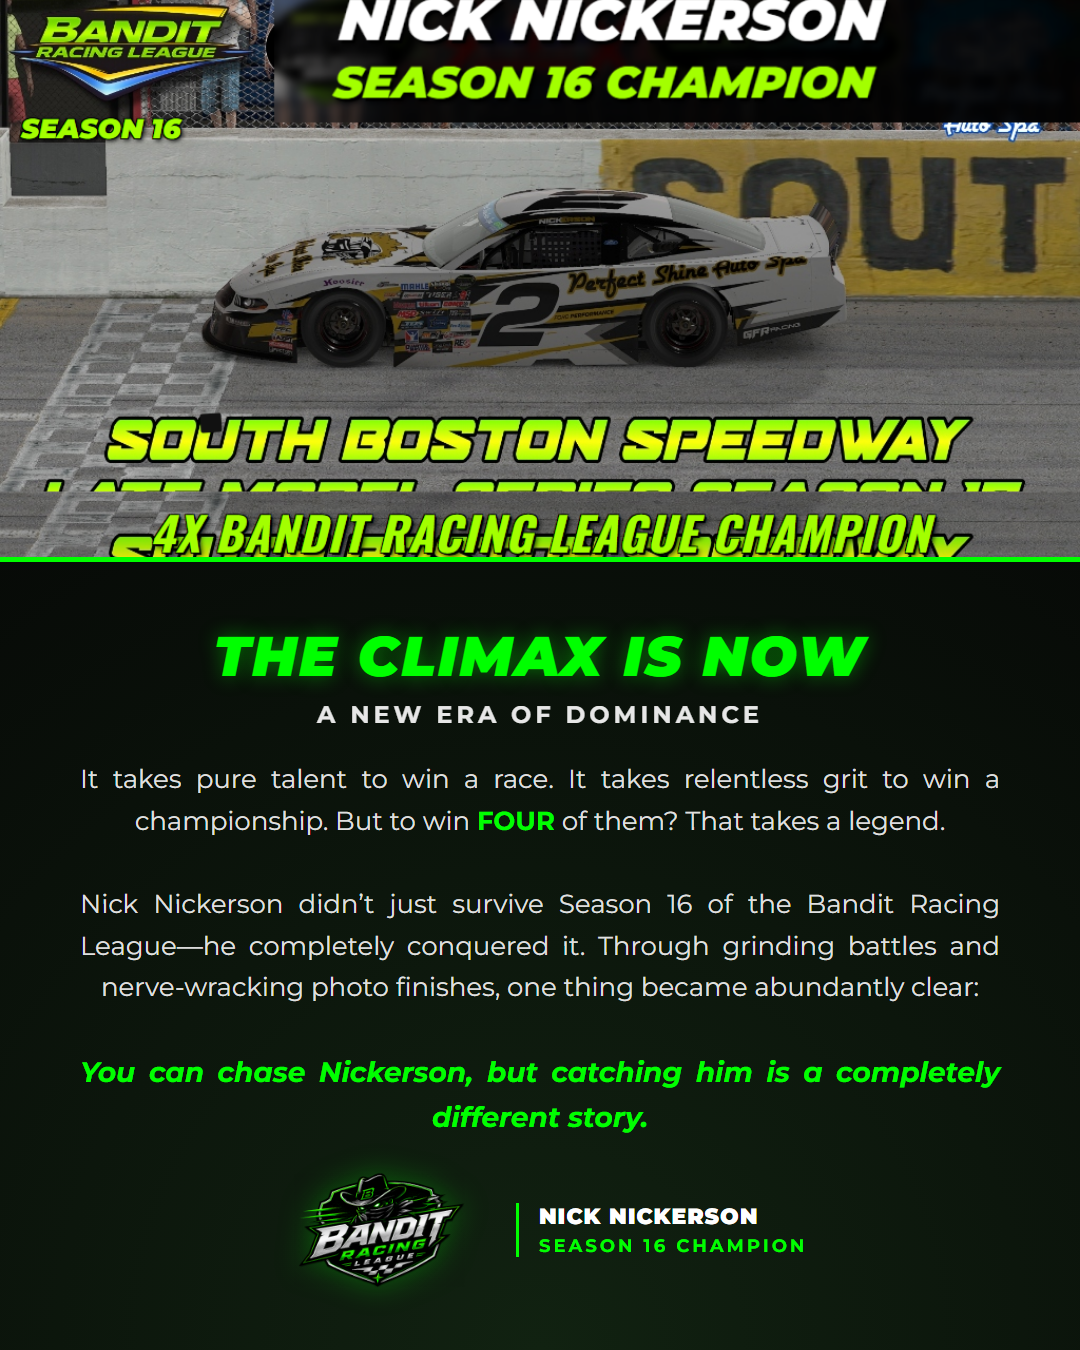
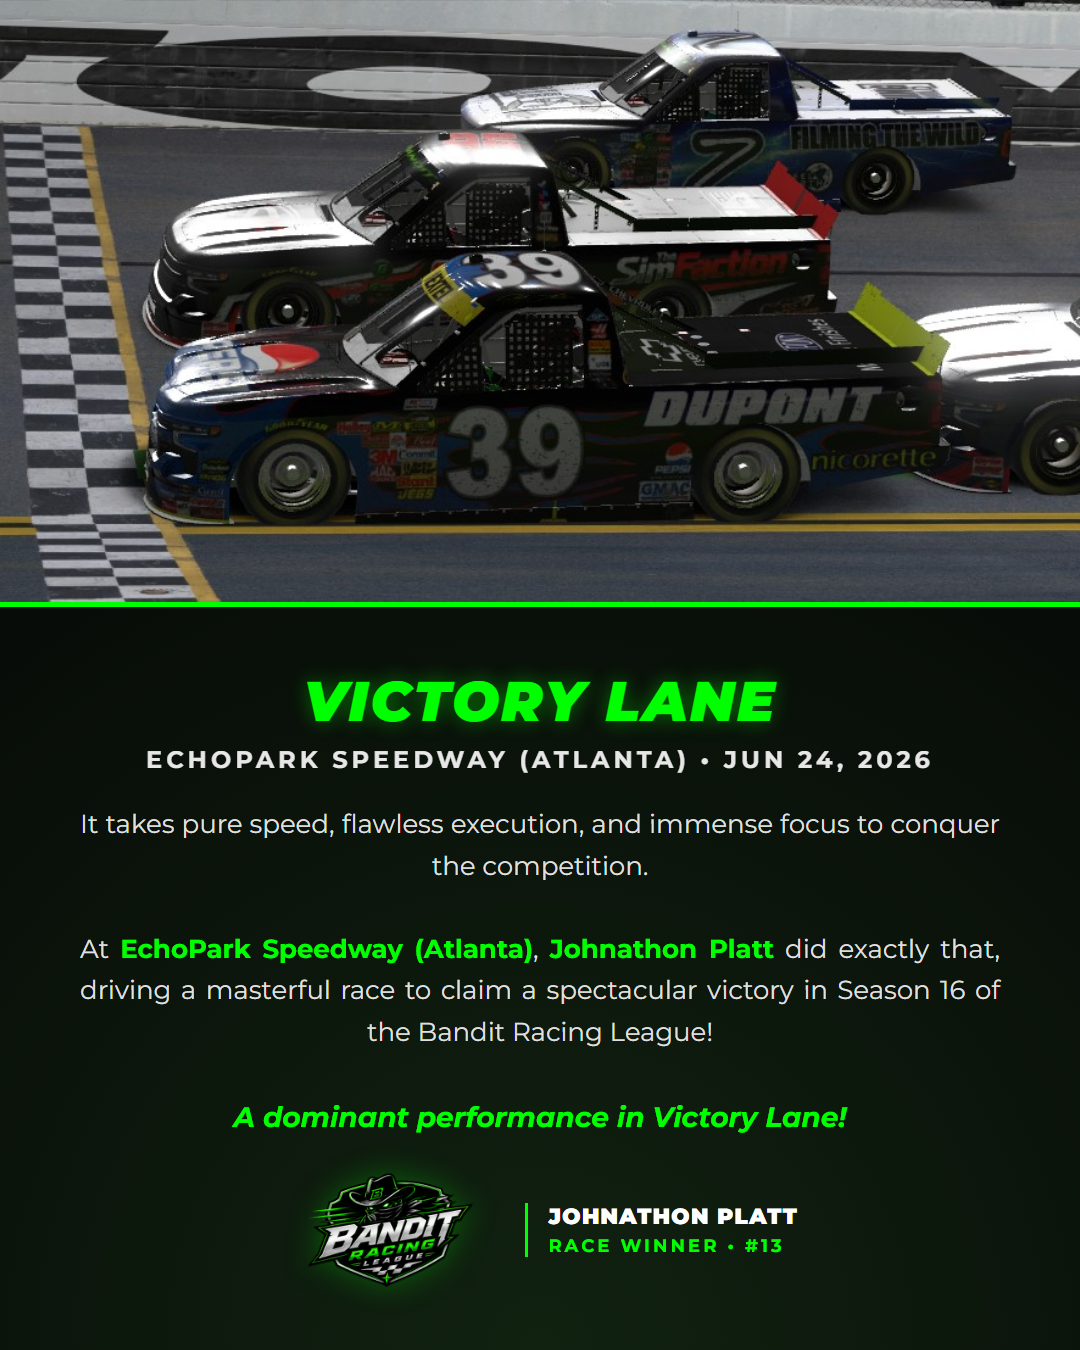
Automate and dynamically update the Facebook story graphic for weekly winners

diff --git a/story_graphic.html b/story_graphic.html
@@ -118,28 +118,54 @@
 </head>
 <body>
 
-  <div class="image-container"></div>
+  <div class="image-container" id="story-image"></div>
 
   <div class="content">
     <div class="title-section">
-      <h1 class="title">THE CLIMAX IS NOW</h1>
-      <div class="subtitle">A NEW ERA OF DOMINANCE</div>
+      <h1 class="title" id="story-title">VICTORY LANE</h1>
+      <div class="subtitle" id="story-subtitle">WEEKLY RACE UPDATE</div>
     </div>
 
-    <div class="story">
-      It takes pure talent to win a race. It takes relentless grit to win a championship. But to win <span class="highlight">FOUR</span> of them? That takes a legend.<br><br>
-      Nick Nickerson didn’t just survive Season 16 of the Bandit Racing League—he completely conquered it. Through grinding battles and nerve-wracking photo finishes, one thing became abundantly clear:<br><br>
-      <span class="highlight" style="font-size: 28px; font-style: italic;">You can chase Nickerson, but catching him is a completely different story.</span>
+    <div class="story" id="dynamic-story">
+      Loading race results...
     </div>
 
     <div class="footer">
-      <img src="new_logo.png" class="logo" />
+      <img src="assets/main-logo.png" class="logo" id="story-logo" />
       <div class="footer-text">
-        <p class="footer-title">NICK NICKERSON</p>
-        <p class="footer-sub">SEASON 16 CHAMPION</p>
+        <p class="footer-title" id="footer-driver">TBD</p>
+        <p class="footer-sub" id="footer-sub">RACE WINNER</p>
       </div>
     </div>
   </div>
 
+  <script src="weekly_data.js"></script>
+  <script>
+    if (typeof weeklyData !== 'undefined') {
+      const winnerName = weeklyData.winnerName || "TBD";
+      const trackName = weeklyData.trackName || "Unknown Track";
+      const raceDate = weeklyData.raceDate || "Date TBD";
+      const winnerNumber = weeklyData.winnerNumber ? `#${weeklyData.winnerNumber}` : "";
+      
+      // Update subtitle
+      document.getElementById('story-subtitle').innerText = `${trackName.toUpperCase()} • ${raceDate.toUpperCase()}`;
+      
+      // Update story text
+      document.getElementById('dynamic-story').innerHTML = `
+        It takes pure speed, flawless execution, and immense focus to conquer the competition.<br><br>
+        At <span class="highlight">${trackName}</span>, <span class="highlight">${winnerName}</span> did exactly that, driving a masterful race to claim a spectacular victory in Season 16 of the Bandit Racing League!<br><br>
+        <span class="highlight" style="font-size: 28px; font-style: italic;">A dominant performance in Victory Lane!</span>
+      `;
+      
+      // Update footer
+      document.getElementById('footer-driver').innerText = winnerName.toUpperCase();
+      document.getElementById('footer-sub').innerText = `RACE WINNER` + (winnerNumber ? ` • ${winnerNumber}` : '');
+      
+      // Update image if winner image exists
+      if (weeklyData.winnerImage) {
+        document.getElementById('story-image').style.backgroundImage = `url('${weeklyData.winnerImage}')`;
+      }
+    }
+  </script>
 </body>
 </html>

diff --git a/weekly_data.js b/weekly_data.js
@@ -336,6 +336,6 @@ const weeklyData = {
       "points": 1
     }
   ],
-  "latestBroadcastVideoId": "B9lDkCVdX7M",
+  "latestBroadcastVideoId": "oF84lT2ODkw",
   "spotlightDriver": "Joshua Billiter"
 };

diff --git a/generate_social_post.py b/generate_social_post.py
@@ -529,6 +529,21 @@ def generate_social_graphic(winner_name, track_name, race_date, teams_data, fant
             
             page.screenshot(path=out_graphic_path)
             page.screenshot(path=out_brain_path)
+            page.close()
+
+            # Render and capture story graphic
+            print("[*] Generating facebook story graphic...")
+            story_html_path = os.path.join(BASE_DIR, "story_graphic.html")
+            out_story_path = os.path.join(BASE_DIR, "final_facebook_story_graphic.png")
+            
+            story_page = browser.new_page(viewport={'width': 1080, 'height': 1350})
+            story_url = f"file:///{story_html_path.replace(os.sep, '/')}"
+            story_page.goto(story_url)
+            story_page.evaluate("document.fonts.ready")
+            story_page.wait_for_timeout(2000)
+            story_page.screenshot(path=out_story_path)
+            story_page.close()
+
             browser.close()
             
         print(f"[+] Success: Standings graphic generated at {out_graphic_path}")

diff --git a/auto_update_league.py b/auto_update_league.py
@@ -170,7 +170,7 @@ def main():
         git_dir = os.path.join(BASE_DIR, ".git")
         if os.path.exists(git_dir):
             print("\n[*] Git repository detected. Staging changes...")
-            subprocess.run(["git", "add", "teams_data.js", "weekly_data.js", "fantasy_data.js", "assets/weekly_social_update.png"], cwd=BASE_DIR)
+            subprocess.run(["git", "add", "teams_data.js", "weekly_data.js", "fantasy_data.js", "assets/weekly_social_update.png", "final_facebook_story_graphic.png"], cwd=BASE_DIR)
             subprocess.run(["git", "commit", "-m", "Auto-update race results and standings"], cwd=BASE_DIR)
             print("[*] Commited updates locally. Pushing to GitHub remote...")
             push_res = subprocess.run(["git", "push"], cwd=BASE_DIR, capture_output=True, text=True)
